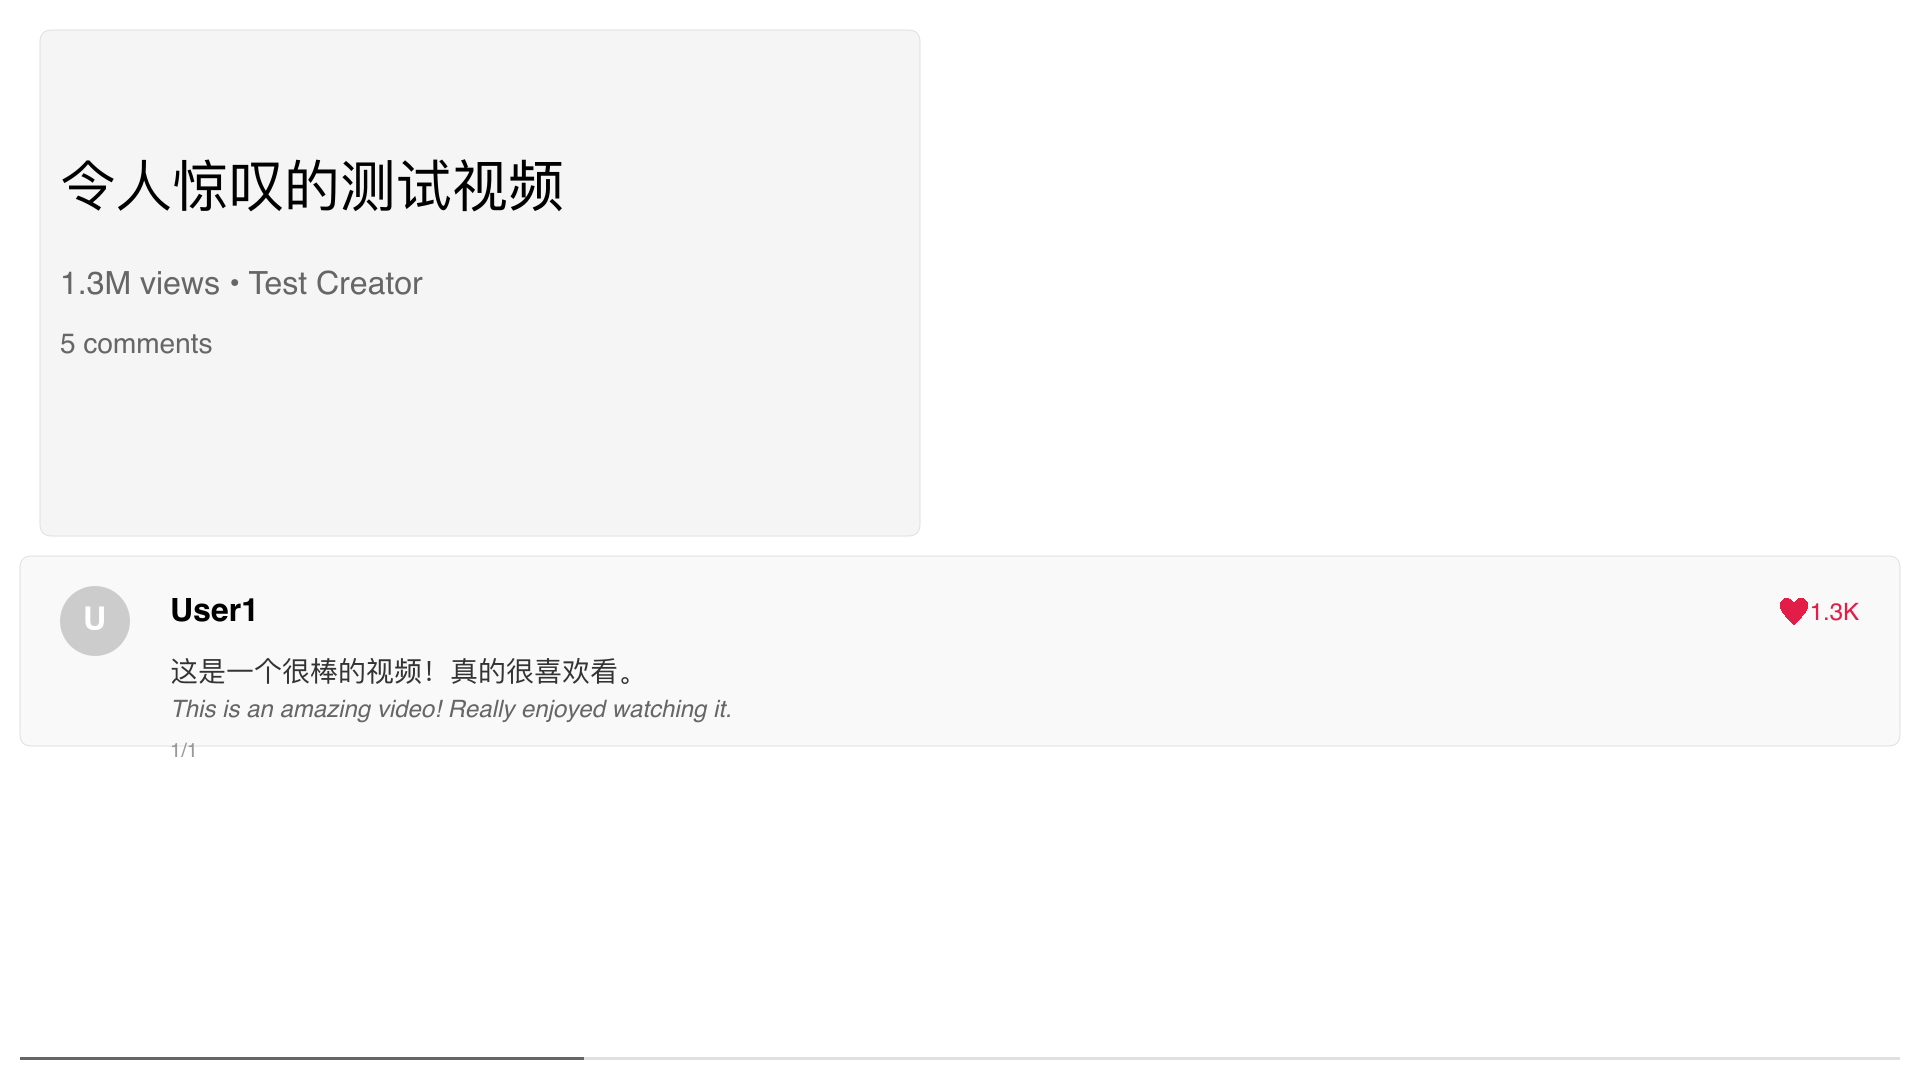
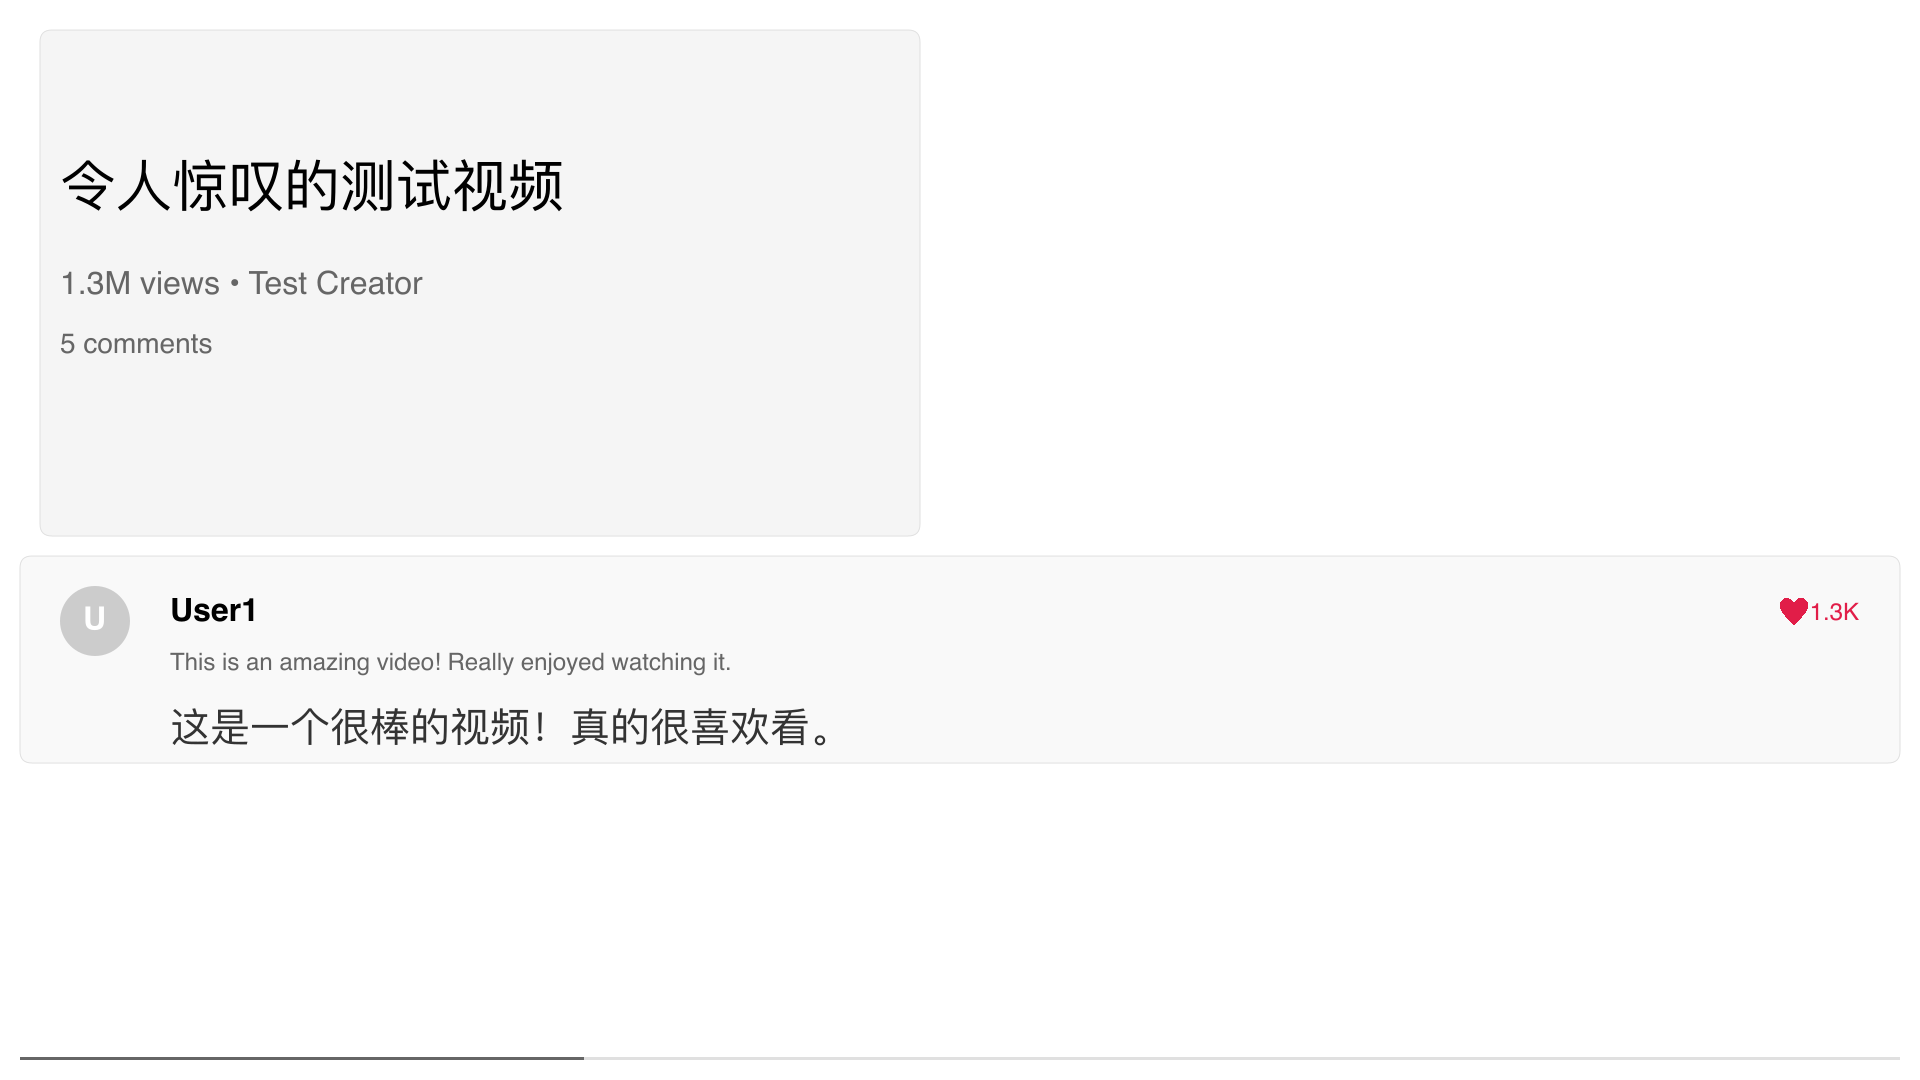
feat: Update video rendering and comment display logic to enhance layout and text wrapping for bilingual content. Adjust filter parameters for video scaling and positioning, improve styles for Chinese text, and remove unnecessary progress bar rendering. Add tests for Chinese text wrapping functional

Changed region(s): [[0.0938, 0.6111, 0.4375, 0.7028]]

diff --git a/lib/media.ts b/lib/media.ts
@@ -199,13 +199,13 @@ export async function renderVideoWithInfoAndComments(
 		// Create optimized filter for the new layout
 		const filterComplex = [
 			// Input video - use tpad instead of loop for better performance
-			`[0:v]tpad=stop_mode=clone:stop_duration=${totalDuration},scale=600:338:force_original_aspect_ratio=decrease,pad=600:338:(ow-iw)/2:(oh-ih)/2:white[small_video]`,
+			`[0:v]tpad=stop_mode=clone:stop_duration=${totalDuration},scale=900:506:force_original_aspect_ratio=decrease,pad=900:506:(ow-iw)/2:(oh-ih)/2:white[small_video]`,
 
 			// Create white background
 			`color=size=1920x1080:color=white:duration=${totalDuration}[bg]`,
 
-			// Overlay small video on top right (position: 1200, 50)
-			`[bg][small_video]overlay=1200:50[bg_with_video]`,
+			// Overlay small video on top right (position: 950, 30) - matching canvas layout
+			`[bg][small_video]overlay=950:30[bg_with_video]`,
 
 			// Add subtitle overlay
 			`[bg_with_video]ass=${assPath}[final]`,
@@ -221,7 +221,7 @@ export async function renderVideoWithInfoAndComments(
 			console.log(
 				'⚠  Using simplified filter due to long duration or many comments',
 			)
-			finalFilter = `[0:v]tpad=stop_mode=clone:stop_duration=${totalDuration},scale=600:338:force_original_aspect_ratio=decrease,pad=1920:1080:(ow-iw)/2:(oh-ih)/2:white,overlay=1200:50,ass=${assPath}[final]`
+			finalFilter = `[0:v]tpad=stop_mode=clone:stop_duration=${totalDuration},scale=900:506:force_original_aspect_ratio=decrease,pad=1920:1080:(ow-iw)/2:(oh-ih)/2:white,overlay=950:30,ass=${assPath}[final]`
 		}
 
 		const ffmpegProcess = ffmpeg(videoPath)
@@ -368,10 +368,10 @@ async function generateInfoAndCommentsAss(
 	assContent += `Style: Info,Noto Sans SC,36,&H00666666,&H000000FF,&H00FFFFFF,&H80000000,0,0,0,0,100,100,0,0,1,1,1,7,80,80,120,1\n`
 	// Comment author style - bold, dark text
 	assContent += `Style: CommentAuthor,Noto Sans SC,32,&H00222222,&H000000FF,&H00FFFFFF,&H80000000,1,0,0,0,100,100,0,0,1,1,1,1,80,80,140,1\n`
-	// Comment content style - regular, dark text
-	assContent += `Style: CommentContent,Noto Sans SC,28,&H00333333,&H000000FF,&H00FFFFFF,&H80000000,0,0,0,0,100,100,0,0,1,1,1,1,80,80,100,1\n`
+	// Comment content style - regular, dark text (Chinese content)
+	assContent += `Style: CommentContent,Noto Sans SC,36,&H00333333,&H000000FF,&H00FFFFFF,&H80000000,1,0,0,0,100,100,0,0,1,1,1,1,80,80,100,1\n`
 	// English content style - italic, lighter text
-	assContent += `Style: EnglishContent,Noto Sans SC,24,&H00666666,&H000000FF,&H00FFFFFF,&H80000000,0,1,0,0,100,100,0,0,1,1,1,1,80,80,80,1\n`
+	assContent += `Style: EnglishContent,Noto Sans SC,22,&H00666666,&H000000FF,&H00FFFFFF,&H80000000,0,1,0,0,100,100,0,0,1,1,1,1,80,80,80,1\n`
 	// Likes style - small, red text
 	assContent += `Style: Likes,Noto Sans SC,24,&H00e11d48,&H000000FF,&H00FFFFFF,&H80000000,0,0,0,0,100,100,0,0,1,1,1,3,80,80,140,1\n`
 	// Avatar placeholder style - colored circle
@@ -644,6 +644,7 @@ export function renderCommentCard(
 	totalComments: number,
 	authorImage: CanvasImageSource | null,
 	width: number,
+	// eslint-disable-next-line @typescript-eslint/no-unused-vars
 	_height: number
 ): void {
 	// Position comment card right below the header/video area
@@ -679,9 +680,9 @@ export function renderCommentCard(
 	let translatedHeight = 0
 	let wrappedTranslated: string[] = []
 	if (comment.translatedContent && comment.translatedContent !== comment.content) {
-		ctx.font = '24px "Noto Sans SC"' // Smaller font for translated content
+		ctx.font = 'bold 40px "Noto Sans SC"' // Larger font for Chinese content
 		wrappedTranslated = wrapText(ctx, comment.translatedContent, maxCommentWidth)
-		translatedHeight = wrappedTranslated.length * 28
+		translatedHeight = wrappedTranslated.length * 45 // Larger line height
 		totalContentHeight += translatedHeight + spacing
 	}
 
@@ -771,41 +772,25 @@ export function renderCommentCard(
 	ctx.textAlign = 'left'
 	currentY += authorHeight + spacing
 
-	// Chinese content (primary) - translated content first
+	// English content (primary) - original content first
+	ctx.fillStyle = '#666666'
+	ctx.font = '24px "Noto Sans SC"'
+	wrappedOriginal.forEach((line, index) => {
+		ctx.fillText(line, textX, currentY + index * 32)
+	})
+	currentY += wrappedOriginal.length * 32 + spacing
+
+	// Chinese content (secondary, more prominent) - translated content below
 	if (comment.translatedContent && comment.translatedContent !== comment.content) {
 		ctx.fillStyle = '#333333'
-		ctx.font = '28px "Noto Sans SC"'
+		ctx.font = 'bold 40px "Noto Sans SC"' // Larger and bold for Chinese
 		wrappedTranslated.forEach((line, index) => {
-			ctx.fillText(line, textX, currentY + index * 32)
+			ctx.fillText(line, textX, currentY + index * 45) // Larger line height
 		})
-		currentY += wrappedTranslated.length * 32 + spacing
-
-		// English content (secondary) - show below Chinese
-		ctx.fillStyle = '#666666'
-		ctx.font = 'italic 24px "Noto Sans SC"'
-		wrappedOriginal.forEach((line, index) => {
-			ctx.fillText(line, textX, currentY + index * 28)
-		})
-		currentY += wrappedOriginal.length * 28 + spacing
-	} else {
-		// No translation available - show original content as primary
-		ctx.fillStyle = '#333333'
-		ctx.font = '28px "Noto Sans SC"'
-		wrappedOriginal.forEach((line, index) => {
-			ctx.fillText(line, textX, currentY + index * 32)
-		})
-		currentY += wrappedOriginal.length * 32 + spacing
+		currentY += wrappedTranslated.length * 36 + spacing
 	}
 
-	// Comment counter
-	ctx.fillStyle = '#999999'
-	ctx.font = '20px "Noto Sans SC"'
-	ctx.textAlign = 'left'
-	ctx.fillText(
-		`${commentIndex + 1}/${totalComments}`,
-		textX,
-		currentY,
-	)
+	// Comment counter removed - no longer needed
 }
 
 /**
@@ -855,9 +840,7 @@ export function generateTestFrame(
 	// Render comment card
 	renderCommentCard(ctx, comment, commentIndex, totalComments, authorImage, width, height)
 
-	// Render progress bar
-	const progress = (commentIndex + 1) / totalComments
-	renderProgressBar(ctx, width, height, progress)
+	// Progress bar removed - no longer needed
 
 	return canvas.toBuffer('image/png')
 }
@@ -928,9 +911,7 @@ export async function renderVideoWithCanvas(
 			}
 		}
 
-		// Render progress bar
-		const progress = time / totalDuration
-		renderProgressBar(ctx, width, height, progress)
+		// Progress bar removed - no longer needed
 
 		const framePath = path.join(
 			framesDir,
@@ -1014,22 +995,47 @@ function wrapText(
 	text: string,
 	maxWidth: number,
 ): string[] {
-	const words = text.split(' ')
 	const lines: string[] = []
 	let currentLine = ''
 
-	for (let i = 0; i < words.length; i++) {
-		const testLine = currentLine + words[i] + ' '
-		const metrics = ctx.measureText(testLine)
-		const testWidth = metrics.width
+	// Check if text contains Chinese characters
+	const hasChinese = /[\u4e00-\u9fff]/.test(text)
+	
+	if (hasChinese) {
+		// For Chinese text, use character-by-character wrapping
+		for (let i = 0; i < text.length; i++) {
+			const char = text[i]
+			const testLine = currentLine + char
+			const metrics = ctx.measureText(testLine)
+			const testWidth = metrics.width
 
-		if (testWidth > maxWidth && i > 0) {
-			lines.push(currentLine.trim())
-			currentLine = words[i] + ' '
-		} else {
-			currentLine = testLine
+			if (testWidth > maxWidth && currentLine.length > 0) {
+				lines.push(currentLine)
+				currentLine = char
+			} else {
+				currentLine = testLine
+			}
+		}
+	} else {
+		// For English text, use word-based wrapping
+		const words = text.split(' ')
+		for (let i = 0; i < words.length; i++) {
+			const testLine = currentLine + words[i] + ' '
+			const metrics = ctx.measureText(testLine)
+			const testWidth = metrics.width
+
+			if (testWidth > maxWidth && i > 0) {
+				lines.push(currentLine.trim())
+				currentLine = words[i] + ' '
+			} else {
+				currentLine = testLine
+			}
 		}
 	}
-	lines.push(currentLine.trim())
+	
+	if (currentLine.trim()) {
+		lines.push(currentLine.trim())
+	}
+	
 	return lines
 }

diff --git a/lib/__tests__/media.test.ts b/lib/__tests__/media.test.ts
@@ -12,7 +12,7 @@ import {
 } from '../media'
 
 describe('renderVideoWithInfoAndComments - Video Rendering Effect Test', () => {
-	it.skip('should render video with info and comments for visual verification', async () => {
+	it('should render video with info and comments for visual verification', async () => {
 		// Test video path - using the test.mp4 in the same directory
 		const testVideoPath = path.join(__dirname, 'test.mp4')
 		const outputPath = path.join(__dirname, 'output_test_video.mp4')
@@ -284,7 +284,64 @@ describe('Individual Rendering Functions - Unit Tests', () => {
 			'✅ Vertical centering demonstration saved to test_vertical_centering.png',
 		)
 
-		// 8. Test updated layout with comment area positioned below header area
+		// 8. Test Chinese text wrapping specifically
+		console.log('📋 Testing Chinese text wrapping functionality...')
+		const chineseCanvas = createCanvas(1920, 1080)
+		const chineseCtx = chineseCanvas.getContext('2d')
+		renderBackground(chineseCtx, 1920, 1080)
+
+		// Create a comment with very long Chinese text
+		const veryLongChineseComment = {
+			id: 'chinese_test',
+			author: '中文测试用户',
+			authorThumbnail:
+				'https://images.unsplash.com/photo-1507003211169-0a1dd7228f2d?w=150&h=150&fit=crop&crop=face',
+			content: 'This is a test comment for Chinese text wrapping.',
+			translatedContent:
+				'这是一个专门用来测试中文换行功能的超长评论，包含大量中文字符，用于验证中文文本是否能够正确地在画布边界内进行换行显示，确保不会出现文本溢出或者显示不完整的问题。',
+			likes: 888,
+			replyCount: 12,
+		}
+
+		// Draw boundary box for visual reference
+		chineseCtx.strokeStyle = '#FF6600'
+		chineseCtx.lineWidth = 2
+		chineseCtx.setLineDash([5, 5])
+		chineseCtx.strokeRect(40, 580, 1600, 400) // Boundary box
+		chineseCtx.setLineDash([])
+
+		// Render the comment with long Chinese text
+		renderCommentCard(
+			chineseCtx,
+			veryLongChineseComment,
+			0,
+			1,
+			null,
+			1920,
+			1080,
+		)
+
+		// Add labels
+		chineseCtx.fillStyle = '#FF6600'
+		chineseCtx.font = '16px Arial'
+		chineseCtx.textAlign = 'left'
+		chineseCtx.fillText(
+			'Chinese Text Wrapping Test - Long Chinese content should wrap within boundary',
+			50,
+			570,
+		)
+		chineseCtx.fillText('Boundary Box (1600x400px)', 50, 600)
+
+		const chineseBuffer = chineseCanvas.toBuffer('image/png')
+		fs.writeFileSync(
+			path.join(__dirname, 'test_chinese_wrapping.png'),
+			chineseBuffer,
+		)
+		console.log(
+			'✅ Chinese text wrapping test saved to test_chinese_wrapping.png',
+		)
+
+		// 9. Test updated layout with comment area positioned below header area
 		console.log('📋 Testing updated layout with comment area below header...')
 		const layoutCanvas = createCanvas(1920, 1080)
 		const layoutCtx = layoutCanvas.getContext('2d')
@@ -343,7 +400,7 @@ describe('Individual Rendering Functions - Unit Tests', () => {
 			'✅ Updated layout demonstration saved to test_updated_layout.png',
 		)
 
-		// 9. Test bilingual comment display with dynamic height
+		// 10. Test bilingual comment display with dynamic height
 		console.log('📋 Testing bilingual comment display with dynamic height...')
 		const bilingualCanvas = createCanvas(1920, 1080)
 		const bilingualCtx = bilingualCanvas.getContext('2d')
@@ -358,7 +415,7 @@ describe('Individual Rendering Functions - Unit Tests', () => {
 			content:
 				'This is a very long comment that contains multiple sentences and should wrap properly when rendered. It demonstrates how the system handles both original English content and its Chinese translation simultaneously with dynamic height calculation.',
 			translatedContent:
-				'这是一个很长的评论，包含多个句子，应该在渲染时正确换行。它展示了系统如何同时处理原始英文内容及其中文翻译，并进行动态高度计算。',
+				'这是一个非常非常长的中文评论，包含很多很多的中文字符，应该能够在画布上正确地进行换行显示。这个测试用例专门用来验证中文文本的换行功能是否正常工作，确保长篇中文评论能够被正确渲染而不会超出边界。',
 			likes: 1234,
 			replyCount: 42,
 		}
@@ -396,12 +453,12 @@ describe('Individual Rendering Functions - Unit Tests', () => {
 		bilingualCtx.font = '14px Arial'
 		bilingualCtx.textAlign = 'left'
 		bilingualCtx.fillText(
-			'Comment 1: With bilingual content (Chinese + English)',
+			'Comment 1: English content first, then Chinese (larger + bold)',
 			50,
 			firstCommentBottom - 30,
 		)
 		bilingualCtx.fillText(
-			'Comment 2: Original content only',
+			'Comment 2: Original content only (English)',
 			50,
 			firstCommentBottom + 20,
 		)
@@ -436,7 +493,10 @@ describe('Individual Rendering Functions - Unit Tests', () => {
 			'   - test_updated_layout.png: Updated layout with comment area below header',
 		)
 		console.log(
-			'   - test_bilingual_comments.png: Bilingual comment display with dynamic height',
+			'   - test_chinese_wrapping.png: Chinese text wrapping test with very long Chinese content',
+		)
+		console.log(
+			'   - test_bilingual_comments.png: Bilingual comment display (English first, Chinese below with enhanced styling)',
 		)
 
 		expect(true).toBe(true)
